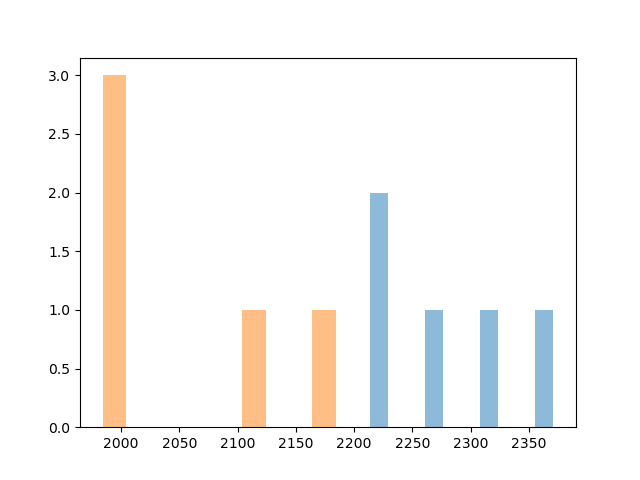
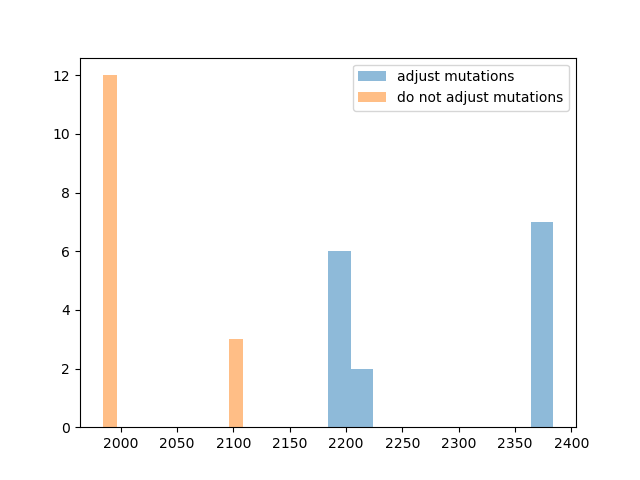
ppa no bueno, quinten mailen?

diff --git a/code/main_schedule.py b/code/main_schedule.py
@@ -32,17 +32,18 @@ def run_scheduler(session_id, dev=False):
         print(S.get_schedule(config_dev))
     else:
         S = Scheduler(Generator, View, session_id)
-        for i in range(5):
+        for i in range(15):
             schedule = S.get_schedule(True, config)
             score_adjust.append(schedule.cost)
             print('done')
-        for i in range(5):
+        for i in range(15):
             schedule = S.get_schedule(False, config)
             score_normal.append(schedule.cost)
             print('done')
         print(score_adjust)
-        plt.hist(score_adjust, alpha=0.5, legend='adjust mutations', bins=10)
-        plt.hist(score_normal, alpha=0.5, legend='do not adjust mutations', bins=10)
+        plt.hist(score_adjust, alpha=0.5, label='adjust mutations', bins=10)
+        plt.hist(score_normal, alpha=0.5, label='do not adjust mutations', bins=10)
+        plt.legend(loc='upper right')
         plt.savefig('adjust_vs_not_adjust')
         plt.show()
         
